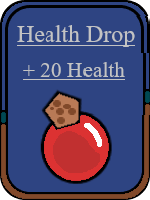
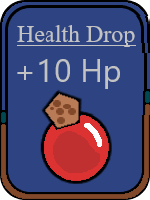
I am adding a message right here to signify an update after two months. adding in a new game state called the wilds where the player can eventually move around I also tweaked the combat a little bit to spice it up since I do not have a proper timer or turn base yet.

Changed region(s): [[0.1067, 0.27, 0.8267, 0.45], [0.9333, 0.21, 1.0, 0.45], [0.8267, 0.21, 0.8533, 0.24]]

diff --git a/ClickRanger.py b/ClickRanger.py
@@ -1,4 +1,6 @@
 #Click Rangers Code rework for better menu, still V 0.01, which is now v 0.02 as of 2/11/23.
+#Making an edit for Click Ranger on 04/23/2023 called "The Wilds" I am adding in another button and game state that will simply allow the player the move around and jump.
+#This is to prepare for an idea I have had in the back of my mind since my last good run with coding
 
 import pygame, sys
 import random
@@ -9,7 +11,7 @@ from pygame.locals import *
 
 pygame.init()
 
-pygame.display.set_caption('Click Ranger V 0.02') #yay we are now 0.01 away from the creation, 1 week in
+pygame.display.set_caption('Click Ranger V 0.04') #yay we are now 0.01 away from the creation, 1 week in
 screen = pygame.display.set_mode((800,600), 0, 32)
 font = pygame.font.SysFont(None, 50)
 clock = pygame.time.Clock()
@@ -21,17 +23,22 @@ clock = pygame.time.Clock()
 
 
 # menuimages
-menuintro = font.render("Click Ranger V 0.03 'COMBAT AND SPELLS'", False, (65, 67, 69))
+menuintro = font.render("Click Ranger V 0.04 'The Wilds'", False, (65, 67, 69))
 start_button = pygame.image.load('graphics/startbutton.png')
 options_button = pygame.image.load('graphics/optionsbutton.png')
 exit_button = pygame.image.load('graphics/exitbutton.png')
 spell_library_button = pygame.image.load('graphics/librarybutton.png')
 menulogo = pygame.image.load('graphics/menulogo.png')
+the_wilds_button = pygame.image.load('graphics/thewildsbutton.png')
 
-#menubuttonrects
-start_button_rect = start_button.get_rect(midleft = (50,250))
-menuintro_rect = menuintro.get_rect(midleft = (50, 150))
-options_rect = options_button.get_rect(midleft = (50, 350))
+
+menuintro_rect = menuintro.get_rect(midleft = (50, 125)) #this is not a button it's the 'background' to the text
+
+#menubuttonrects, I want my buttons listed in order as they also appear on my menu in-game.
+
+start_button_rect = start_button.get_rect(midleft = (50,200)) #starts a card combat game. idea to rename as I go.
+the_wilds_rect = the_wilds_button.get_rect(midleft=(50, 275))
+options_rect = options_button.get_rect(midleft = (50, 365))
 exit_rect = exit_button.get_rect(midleft = (50, 550))
 spelllib_rect = spell_library_button.get_rect(midleft = (50, 450))
 menulogo_rect = menulogo.get_rect(topleft = (325, 200))
@@ -109,6 +116,7 @@ def main_menu():
         
         screen.fill('grey')
         screen.blit(menuintro, menuintro_rect)
+        screen.blit(the_wilds_button, the_wilds_rect)
         screen.blit(start_button, start_button_rect)
         screen.blit(menulogo, menulogo_rect)
         screen.blit(options_button, options_rect)
@@ -152,6 +160,12 @@ def main_menu():
                 if click:
                     pygame.quit()
                     sys.exit()
+
+
+            if the_wilds_rect.collidepoint((mx,my)):
+                if click:
+                    enter_wilds()
+
                     
          
         pygame.display.update()
@@ -257,6 +271,10 @@ def game(): #reworked enough to be called my own again.
                         cards_drawn += 1
                         card_active = False
 
+                        if cards_drawn % 3 == 0:
+                            player_health -= 10
+
+
                         if random_spell == (manashot, manashot_rect):
                             print('manashot was drawn')
                             spell_active = 'manashot'
@@ -271,22 +289,22 @@ def game(): #reworked enough to be called my own again.
             
                         
             if strike_button_rect.collidepoint((mx, my)) and click:
-                enemy_health -= 5
-                #player_health -= 3
+                enemy_health -= 10
+                player_health += 1
                 
             if castaspell_rect.collidepoint((mx, my)):
                 if click:
                     if card_active != True:
                         if spell_active == 'manashot':
                             enemy_health -= 10
-                            #player_health -= 10
+                            player_health += 2
                             screen.blit(topcard, casted_spell_rect)
                             casts += 1                   
                             print('your casts are',  casts)
                             spell_active = 'None'
                             
                         if spell_active == 'healthdrop':
-                            player_health += 30
+                            player_health += 10
                             screen.blit(topcard, casted_spell_rect)
                             casts += 1                   
                             print('your casts are',  casts)
@@ -294,6 +312,7 @@ def game(): #reworked enough to be called my own again.
                             
                         if spell_active == 'fireball_shot':
                             enemy_health -= 15
+                            player_health += 2
                             screen.blit(topcard, casted_spell_rect)
                             casts += 1                   
                             print('your casts are',  casts)
@@ -317,7 +336,7 @@ def game(): #reworked enough to be called my own again.
                 print("the earthslime is Level", earthslime_level)
                 print("the player is Level", player_level)
                 print(enemy_health)
-                player_health += 25
+                player_health -= 25
 
             if player_health >= 150:
                 player_health = 150
@@ -332,13 +351,14 @@ def game(): #reworked enough to be called my own again.
 
 
             #Here is where I am going to test/put my if statement for enemy attacks
-            if enemy_attacking:
-                enemy_charge_attack += 1
-                pygame.time.delay(200)
+            
+            #if enemy_attacking:
+            #    enemy_charge_attack += 1
+            #    pygame.time.delay(200)
 
-                if enemy_charge_attack == enemy_attack_timer:
-                    player_health -= 2
-                    enemy_charge_attack = 0
+            #    if enemy_charge_attack == enemy_attack_timer:
+            #        player_health -= 2
+            #       enemy_charge_attack = 0
 
                  
                 
@@ -380,7 +400,57 @@ def game(): #reworked enough to be called my own again.
         
             
             pygame.display.update()
-            clock.tick(0)
+            clock.tick(30)
+
+
+def enter_wilds():
+    screen.fill("darkgray")
+    wildsbackground = pygame.image.load('graphics/wildsbg.png')
+    
+        
+    screen.blit(menubutton, menubutt_rect)
+    screen.blit(wildsbackground, (0,0))
+    screen.blit(menubutton,menubutt_rect)
+    screen.blit(player_image, (50,450))
+    running = True
+    
+    while running:
+        
+            
+        mx, my = pygame.mouse.get_pos()
+        click = False
+
+        for event in pygame.event.get():
+            if event.type == QUIT:
+                pygame.quit()
+                sys.exit()
+                    
+            if event.type == KEYDOWN:
+                    
+                if event.key == K_ESCAPE:
+                        running = False
+
+                #movement will have to come when my mind has refreshed or whenver I get the time again. Honestly I am surprised I did this much this evening.
+                        
+            if event.type == MOUSEBUTTONDOWN:
+                    
+                if event.button == 1:
+                    click = True
+                
+
+            # No check for current_state, so occurs regardless of state
+            if menubutt_rect.collidepoint((mx, my)):
+                #print("Hey there is collision")
+                if click:
+                    return  # Goes back to main menu, as it is the one that calls game
+                
+
+        pygame.display.update()
+
+
+
+
+
 
 def spells_library():
     
